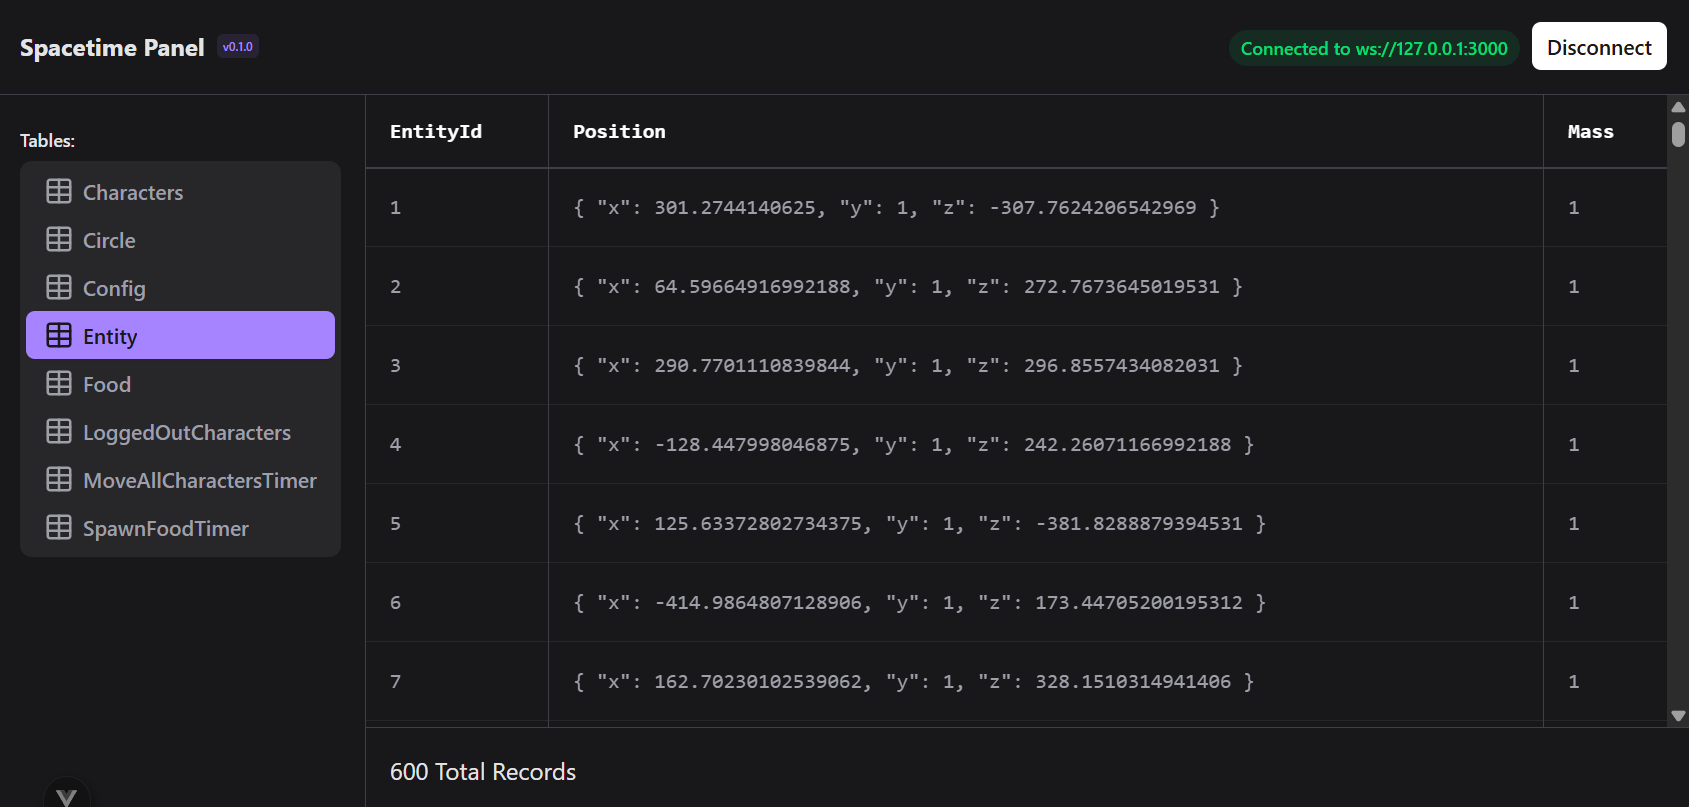
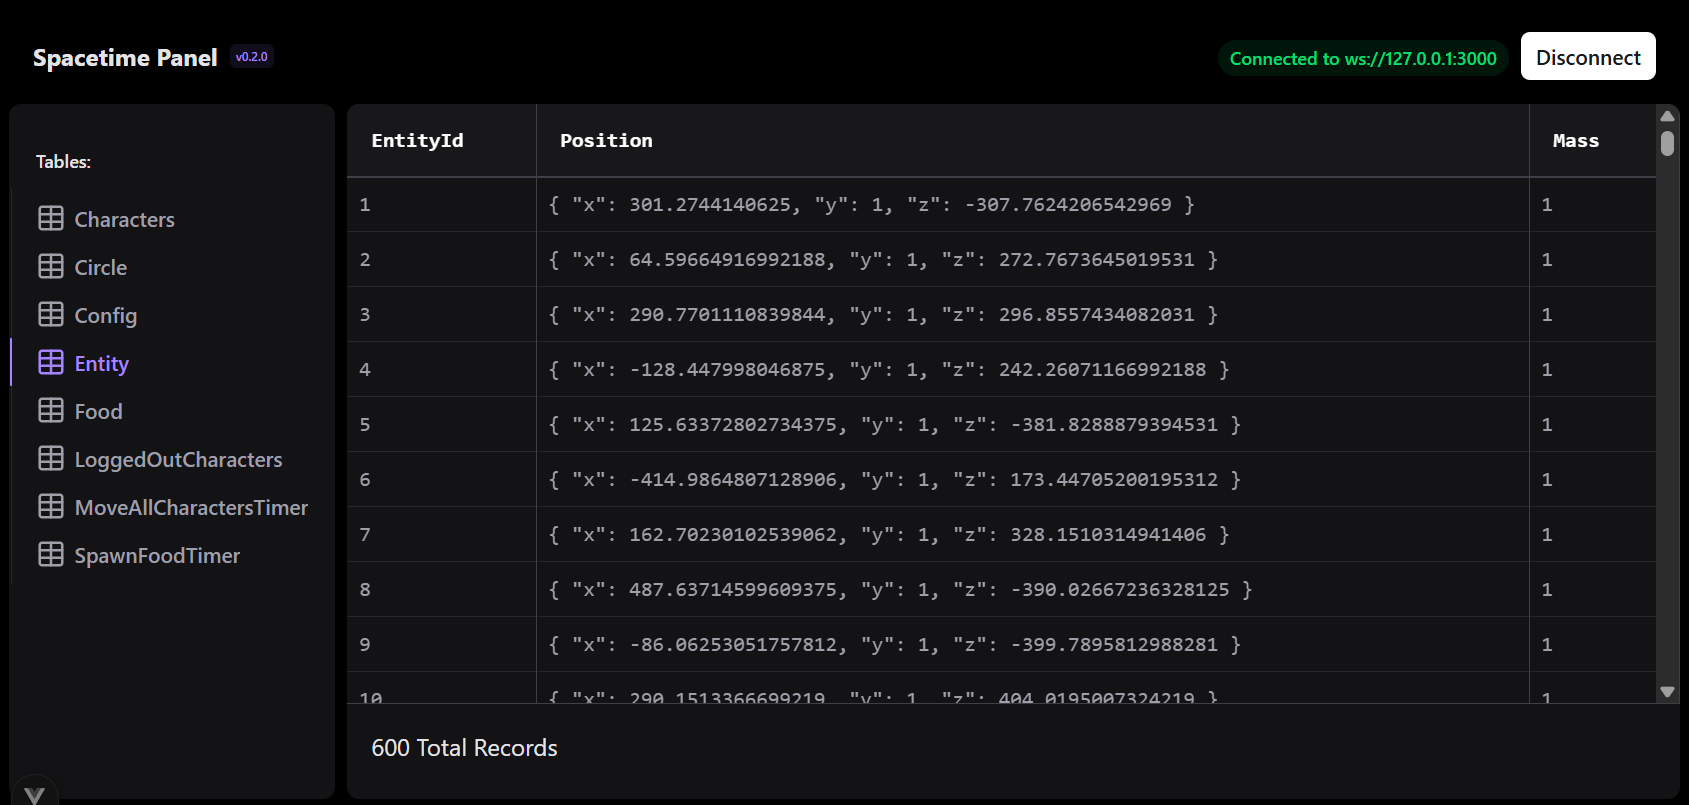
Update HomeView UI layout and version badge
Refactored HomeView.vue to improve layout using UCard components, adjusted padding and spacing, and updated the version badge to v0.2.0. Also modified height calculations and table UI for better consistency. Updated screenshot.png to reflect UI changes.

diff --git a/src/views/HomeView.vue b/src/views/HomeView.vue
@@ -174,10 +174,10 @@ const formattedRows = computed(() =>
 </script>
 
 <template>
-  <div>
+  <div class="bg-black p-2">
     <!--Header-->
-    <div class="flex justify-between p-4 border-b border-accented">
-      <div class="font-bold flex items-center">Spacetime Panel <UBadge label="v0.1.0" size="xs" variant="soft" class="ml-2"/></div>
+    <div class="flex justify-between p-4">
+      <div class="font-bold flex items-center">Spacetime Panel <UBadge label="v0.2.0" size="xs" variant="soft" class="ml-2"/></div>
       <div v-if="connection">
         <UBadge :label="'Connected to ' + serverUri" color="success" variant="soft" class="mr-2 rounded-full"/>
         <UButton label="Disconnect" color="neutral" @click="disconnect"/>
@@ -188,11 +188,11 @@ const formattedRows = computed(() =>
 
     </div>
 
-    <div class="flex">
+    <div class="flex space-x-2">
       <!--  Sidebar-->
-      <div class="border-r border-accented h-[calc(100vh-65px)] p-4">
-        <span class="text-xs font-semibold">Tables:</span>
-        <UTabs class="mt-1" orientation="vertical" variant="pill" :content="false" :items="tables.map((item) => {
+      <UCard variant="soft" :ui=" {body: 'px-0.5!'}" class="h-[calc(100vh-80px)]">
+        <span class="text-xs font-semibold px-4">Tables:</span>
+        <UTabs class="mt-2" orientation="vertical" variant="link" :content="false" :items="tables.map((item) => {
                  return {
                    label: item.name,
                    icon: 'i-lucide-table'
@@ -200,10 +200,10 @@ const formattedRows = computed(() =>
                })" v-model="selectedTableTab" @update:modelValue="(e) => selectTable(e)" :ui=" {
                  trigger: 'items-start text-start w-full'
                }"/>
-      </div>
+      </UCard>
 
       <!--Main Content-->
-      <div class="flex-1">
+      <UCard variant="soft" class="flex-1" :ui=" {body: 'p-0!'}">
         <main>
           <div v-if="connection" class=" flex flex-col">
             <div>
@@ -211,10 +211,10 @@ const formattedRows = computed(() =>
                 :data="formattedRows"
                 :sticky="true"
                 :ui=" {
-                  root: 'h-[calc(100vh-122px)]',
+                  root: 'h-[calc(100vh-144px)]',
                   thead: 'sticky top-0 inset-x-0 bg-default z-[2] backdrop-blur-none border-b border-accented',
                   th: 'px-4 py-3.5 text-sm text-highlighted text-left font-semibold border-l border-accented [&:first-child]:border-l-0',
-                  td: 'p-4 text-sm text-muted whitespace-nowrap border-l border-accented [&:first-child]:border-l-0',
+                  td: 'p-2 text-sm text-muted whitespace-nowrap border-l border-accented [&:first-child]:border-l-0',
                   tbody: 'border-b border-accented'
                 }"
                 class="font-mono border-r border-accented"
@@ -226,7 +226,7 @@ const formattedRows = computed(() =>
             </div>
           </div>
 
-          <div class="w-full h-[calc(100vh-65px)] flex items-center justify-center" v-else>
+          <div class="w-full h-[calc(100vh-144px)] flex items-center justify-center" v-else>
             <div class="flex flex-col space-y-2 w-96 border border-accented rounded-xl p-4">
               <span class="mb-8 font-bold">You are not connected</span>
 
@@ -245,7 +245,7 @@ const formattedRows = computed(() =>
 
           </div>
         </main>
-      </div>
+      </UCard>
     </div>
   </div>
 </template>
